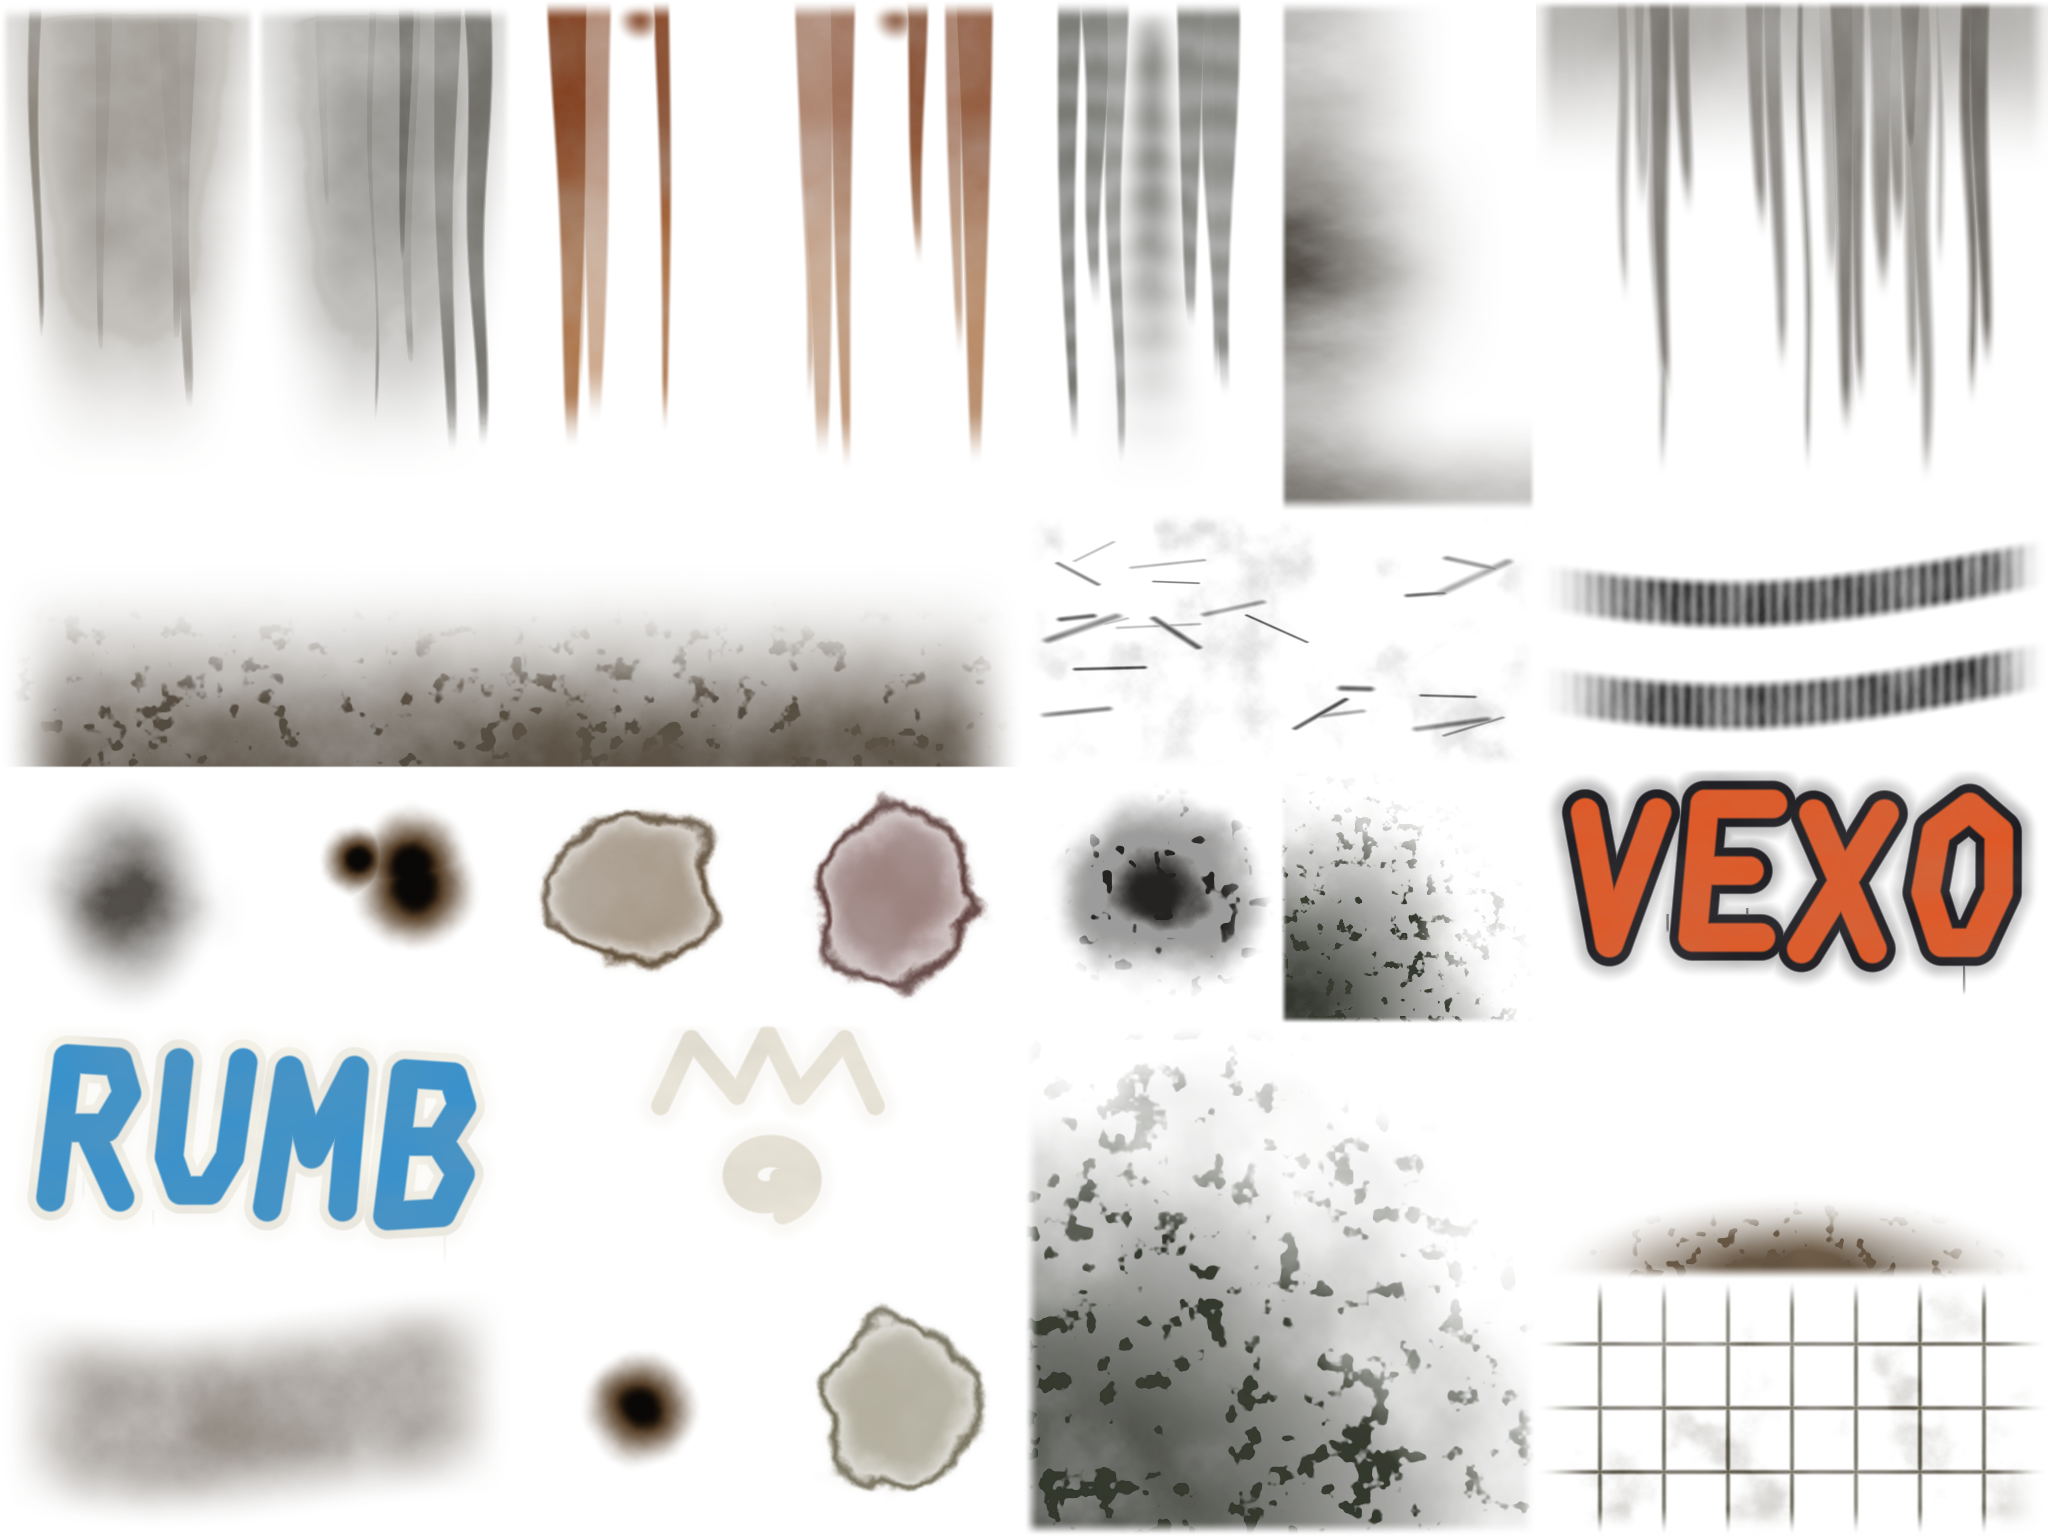
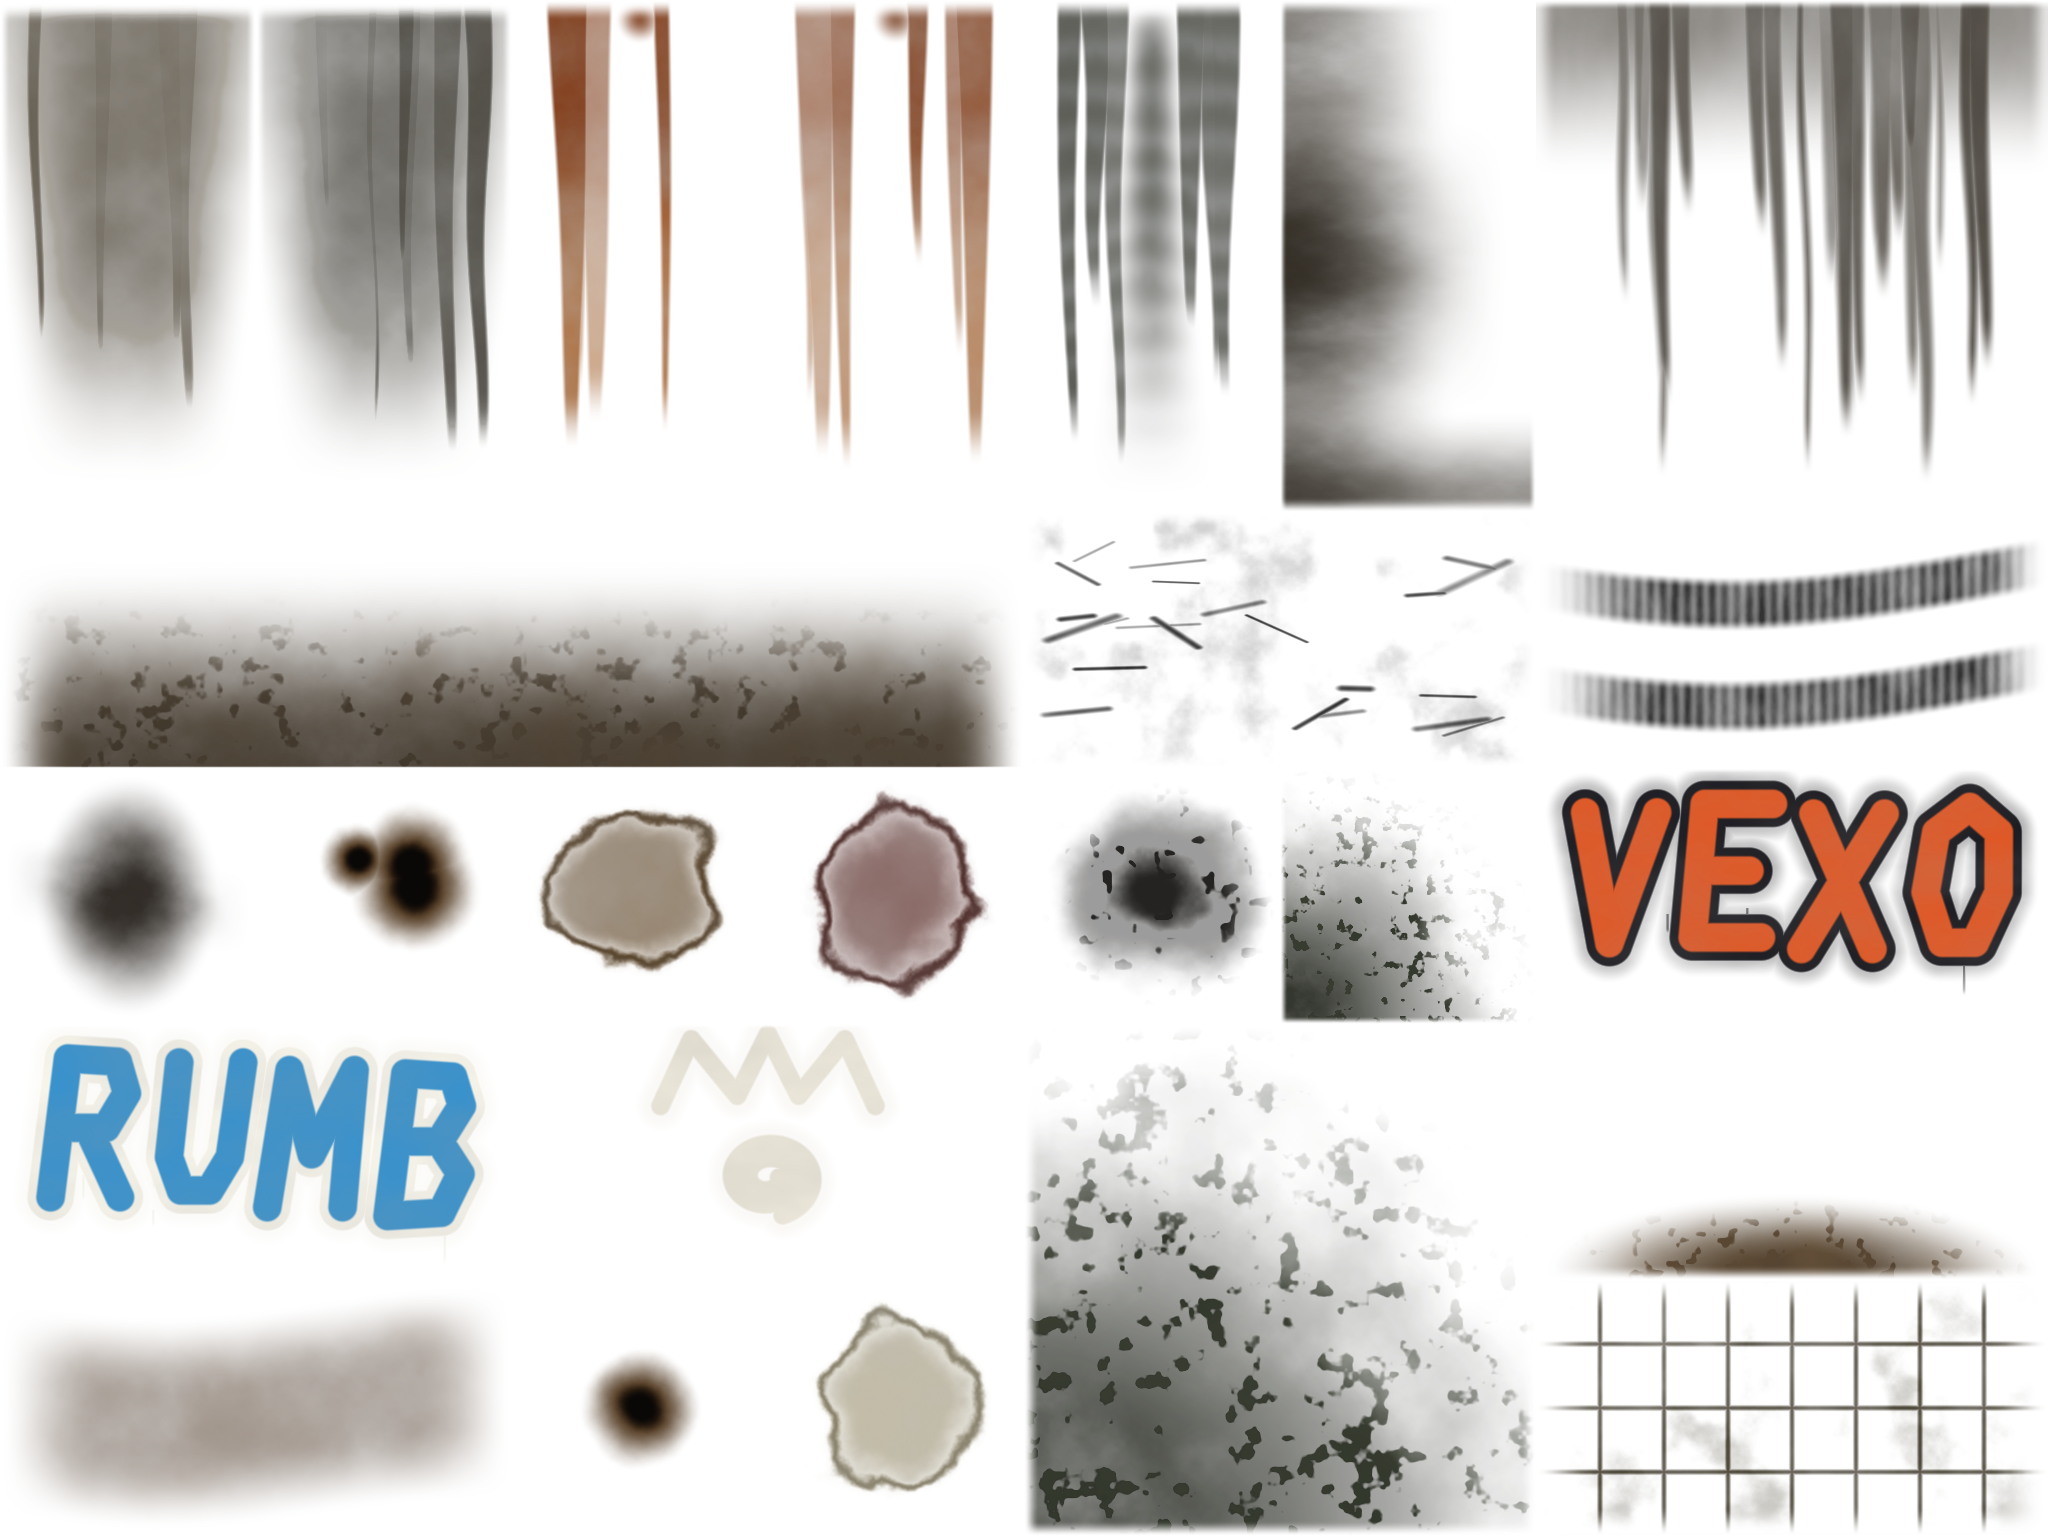
swat decals: tune atlas coverage, carpet stains, occlusion filter, AC puddles

diff --git a/ocean/swat/surface_decals.h b/ocean/swat/surface_decals.h
@@ -354,7 +354,7 @@ static inline int swat_decal_surface_kind(const SwatWorld* w,const SwatObject* o
         // Wall: the thin horizontal axis is the face axis; at least 1.6 m tall.
         float thin=fminf(half[0],half[2]);
         if(a==1 || half[a]>thin+1e-4f || half[1]<.8f || fmaxf(half[b],half[c])<.5f || half[a]>.35f)return -1;
-        if(!parent && !(o->material==SWAT_PLASTER || o->material==SWAT_BRICK || o->material==SWAT_DRYWALL || o->material==SWAT_CONCRETE))return -1;
+        if(!(o->material==SWAT_PLASTER || o->material==SWAT_BRICK || o->material==SWAT_DRYWALL || o->material==SWAT_CONCRETE))return -1;
         float probe[3]={face[0]+n[0]*.35f,face[1],face[2]+n[2]*.35f};
         return swat_decal_room_at(w,probe)>=0?SWAT_DECAL_WALL_INTERIOR:SWAT_DECAL_WALL_EXTERIOR;
     }
@@ -369,7 +369,21 @@ static inline int swat_decal_surface_kind(const SwatWorld* w,const SwatObject* o
     return -1;
 }
 
-static inline void swat_decal_scatter_face(SwatDecalSet* set,const SwatDecalRule* r,const SwatObject* o,int f,uint32_t state) {
+// Scattered decals are not placed where furniture, fixtures or props stand on
+// (or against) the surface: a point 5 cm off the surface inside any other
+// active object is covered. Hero decals are placed by hand and not filtered.
+static inline bool swat_decal_hidden(const SwatWorld* w,const SwatObject* surface,const float* c,const float* n) {
+    float p[3]={c[0]+n[0]*.05f,c[1]+n[1]*.05f,c[2]+n[2]*.05f};
+    for(int i=0;i<w->count;i++) {
+        const SwatObject* o=&w->objects[i];
+        if(o==surface || !o->active || o->part==SWAT_PART_SKIN || o->part==SWAT_PART_LIGHT || o->door)continue;
+        float axes[3][3];swat_decal_axes(o,axes);
+        float q[3]={p[0]-(float)o->center.x,p[1]-(float)o->center.y,p[2]-(float)o->center.z};
+        if(fabsf(swat_decal_dot(q,axes[0]))<o->half.x && fabsf(q[1])<o->half.y && fabsf(swat_decal_dot(q,axes[2]))<o->half.z)return true;
+    }
+    return false;
+}
+static inline void swat_decal_scatter_face(SwatDecalSet* set,const SwatWorld* world,const SwatDecalRule* r,const SwatObject* o,int f,uint32_t state) {
     float axes[3][3];swat_decal_axes(o,axes);float n[3];swat_decal_face_plane(o,f,n);
     const float half[3]={o->half.x,o->half.y,o->half.z};int a=f/2;
     float centre[3]={(float)o->center.x,(float)o->center.y,(float)o->center.z};
@@ -409,6 +423,7 @@ static inline void swat_decal_scatter_face(SwatDecalSet* set,const SwatDecalRule
         }
         float c[3];for(int i=0;i<3;i++)c[i]=origin[i]+S[i]*s+T[i]*t;
         if(r->boxed && (c[0]<r->box[0]||c[1]<r->box[1]||c[2]<r->box[2]||c[0]>r->box[3]||c[1]>r->box[4]||c[2]>r->box[5]))continue;
+        if(swat_decal_hidden(world,o,c,n))continue;
         SwatDecal* d=swat_decal_add(set,tile,c,n,fabsf(w),h,rot,alpha,r->layer);
         if(!d)return;
         if(w<0)for(int i=0;i<3;i++)d->right[i]=-d->right[i]; // Mirrored: flip winding back in emit.
@@ -421,7 +436,7 @@ static inline void swat_decals_scatter(SwatDecalSet* set,const SwatWorld* w) {
         const SwatDecalRule* r=&set->rules[ri];
         for(int i=0;i<w->count;i++)for(int f=0;f<6;f++) {
             if(swat_decal_surface_kind(w,&w->objects[i],f)!=(int)r->surface)continue;
-            swat_decal_scatter_face(set,r,&w->objects[i],f,swat_decal_hash(r->seed*2654435761U+(uint32_t)(i*6+f)));
+            swat_decal_scatter_face(set,w,r,&w->objects[i],f,swat_decal_hash(r->seed*2654435761U+(uint32_t)(i*6+f)));
         }
     }
 }

diff --git a/ocean/swat/tools/blender/motel_decals.py b/ocean/swat/tools/blender/motel_decals.py
@@ -277,7 +277,8 @@ def t_carpet_wear(rng, h, w):
     n = fbm(rng, h, w, 4, 6, aspect=(1, 2))
     path = smooth(0.42, 0.10, np.abs(y - 0.5 - 0.06 * np.sin(x * 5)))
     cov = path * (0.45 + 0.6 * n) * smooth(0, 0.2, x) * smooth(0, 0.2, 1 - x)
-    rgb = np.array([0.22, 0.17, 0.12])[None, None, :] * (0.85 + 0.3 * n[..., None])
+    # Crushed, sun-bleached pile: greyer and lighter than any carpet dye.
+    rgb = np.array([0.46, 0.40, 0.35])[None, None, :] * (0.85 + 0.3 * n[..., None])
     return rgb, np.clip(cov, 0, 1) * 0.6, -cov * 0.08, 0.92 + 0.05 * n
 
 def t_grout(rng, h, w):
@@ -376,7 +377,7 @@ def build(name, rng, h, w):
     if name == "burn_b": return t_burn(rng, h, w, True)
     if name == "stain_a": return t_stain(rng, h, w, [0.36, 0.26, 0.14])   # coffee / soda
     if name == "stain_b": return t_stain(rng, h, w, [0.30, 0.12, 0.10])   # wine
-    if name == "stain_c": return t_stain(rng, h, w, [0.45, 0.42, 0.30])   # dried water / bleach-ish
+    if name == "stain_c": return t_stain(rng, h, w, [0.62, 0.58, 0.46])   # dried water / bleach-ish
     if name == "carpet_wear": return t_carpet_wear(rng, h, w)
     if name == "grout_grime": return t_grout(rng, h, w)
     if name == "mould": return t_mould(rng, h, w, False)
@@ -385,6 +386,10 @@ def build(name, rng, h, w):
     if name == "tag_rumb": return tag(rng, h, w, "RUMB", [0.20, 0.55, 0.78], [0.95, 0.94, 0.90], slant=0.25)
     if name == "tag_glyph": return t_glyph(rng, h, w)
     raise KeyError(name)
+
+BOOST = {"streak_a": 1.8, "streak_b": 1.8, "roof_runoff": 1.7, "ac_drip": 1.6, "frame_grime": 2.2,
+         "handle_grime": 1.8, "grime_base": 1.9, "splash": 1.6, "scuff": 1.5, "carpet_wear": 1.6,
+         "grout_grime": 1.4, "stain_a": 1.3, "stain_b": 1.3, "stain_c": 1.3}
 
 def normal_from_height(hgt, strength):
     gy, gx = np.gradient(hgt)
@@ -410,6 +415,10 @@ for index, (name, cx, cy, cw, ch, mw, mh) in enumerate(TILES):
     h, w = ch * CELL, cw * CELL
     rgb, a, hgt, rough = build(name, rng, h, w)
     a = np.clip(a, 0, 1)
+    # Weathering reads through the walls' strong stucco relief only with a
+    # denser core: lift mid coverage (graffiti, burns, oil keep their shapes).
+    if name in BOOST:
+        a = 1 - (1 - a) ** BOOST[name]
     rgb = np.clip(rgb, 0, 1)
     mean = (rgb * a[..., None]).sum((0, 1)) / max(a.sum(), 1e-6)
     # Quantize alpha to 1/255 first so bleed colour is used exactly where a==0.
